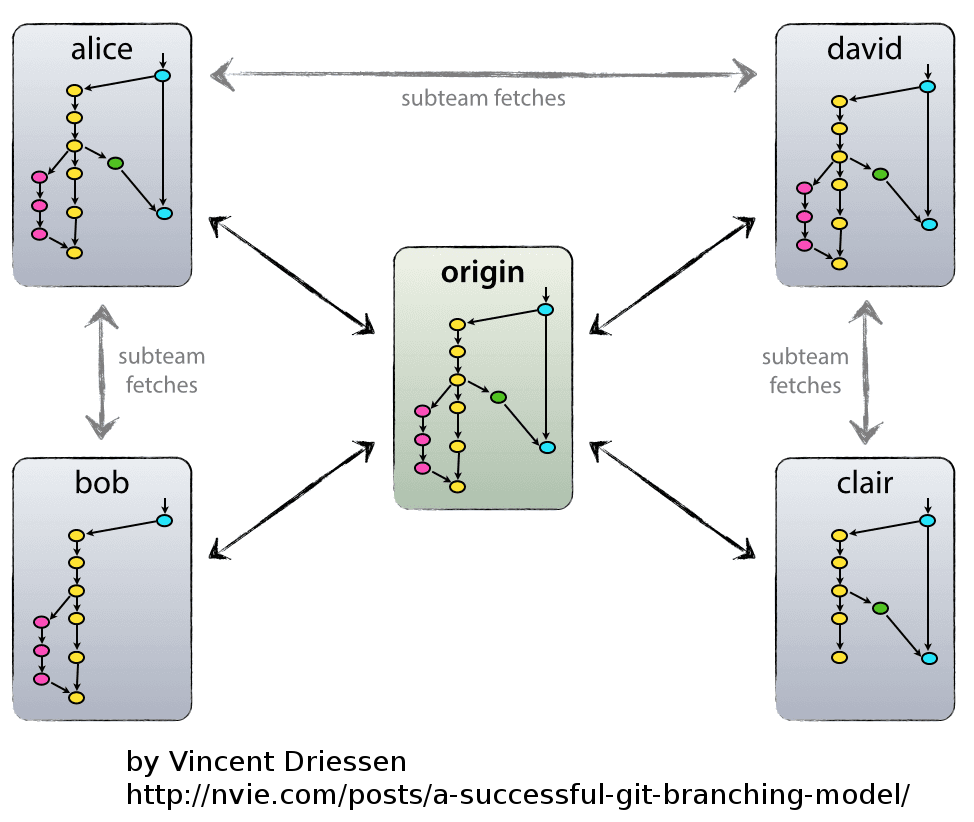
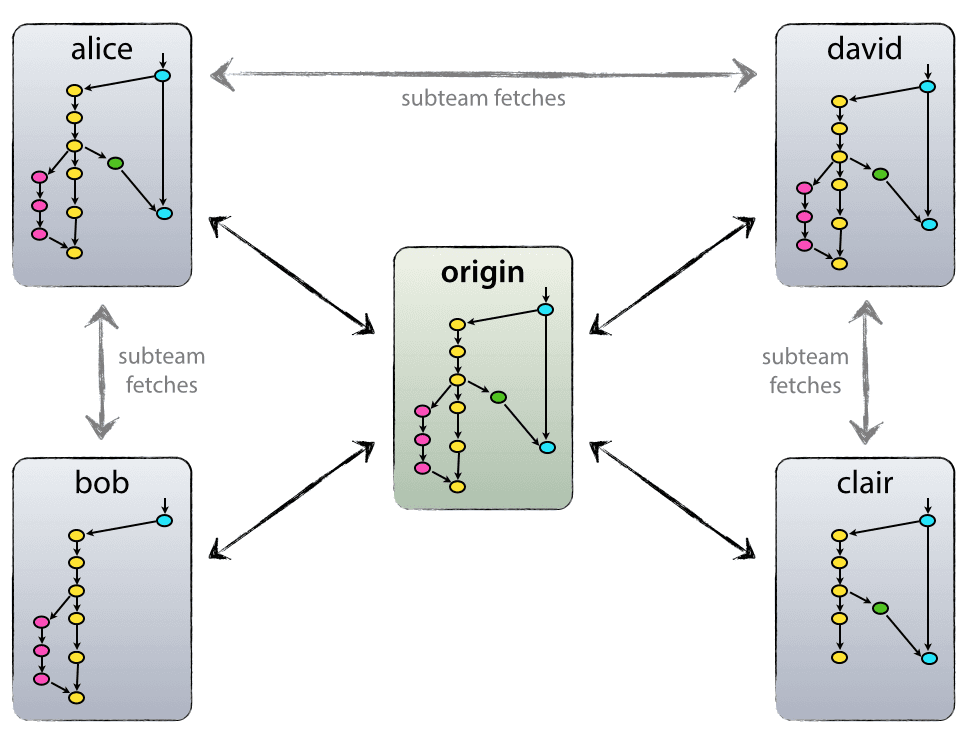
[Add explicit HREF to Vincent blog spot]

diff --git a/index.html b/index.html
@@ -64,7 +64,7 @@
 
         <meta name="description" content="git - A short story">
         <meta name="author" content="Papadakos Panagiotis" />
-	<meta name="keywords" content="git tutorial, a little story">
+        <meta name="keywords" content="git tutorial, a little story">
 
         <link href='https://fonts.googleapis.com/css?family=Lato:300' rel='stylesheet' type='text/css'>
         <link href="css/style.css" rel="stylesheet" />
@@ -164,7 +164,7 @@
             <!-- Things change rapidly -->
             <div id="comparison" class="step" data-x="3900" data-y="-1200" data-z="-3000" data-rotate="100" data-scale="1">
                 <h2>git ≈ hg</h2>
-                <table id="t01">
+                <table>
                     <tr>
                         <td class='hidden'> </td>
                         <th><b>SVN</b></th>
@@ -593,11 +593,16 @@
                     <li>Someone initializes a central branch <b>(master)</b></li>
                     <li>Everybody clones the central repository</li>
                     <li>Each one works to the code (edit, stage, commit)</li>
-                    <li>Upload work in master either by using <code>git push origin master</code></li>
+                    <li>Upload work in master by using <code>git push origin master</code></li>
                     <li>If trees have diverged, you have first to <code>git pull</code></li>
                 </ul>
                 <h3 id="imgWorkflows2">Decentralized <img src="images/centr-decentr@2x.png" alt="workflows"></h3>
-                <br><br><br><br><br><br><br><br><br>
+                <br><br><br><br><br><br><br><br>
+                <span class="thanks">
+                    Sketches by Vincent Driessen<br>
+                    <a href="http://nvie.com/posts/a-successful-git-branching-model/">http://nvie.com/posts/a-successful-git-branching-model/</a>
+                </span>
+                <br>
 
             </div>
             <!-- Some historical clues -->
@@ -665,7 +670,7 @@
                         <td>Yes</td>
                     </tr>
                     <tr>
-                        <td class='left'><b>Deployment</b></td>
+                        <td class='left'><b>Project Deployment</b></td>
                         <td>No</td>
                         <td>No</td>
                         <td>Yes</td>

diff --git a/css/style.css b/css/style.css
@@ -79,15 +79,15 @@ th, td {
     text-align: left;
     width: 25%;
 }
-table#t01 tr:nth-child(even) {
+table tr:nth-child(even) {
     background-color: #eee;
     width: 25%;
 }
-table#t01 tr:nth-child(odd) {
+table tr:nth-child(odd) {
     background-color:#fff;
     width: 25%;
 }
-table#t01 th	{
+table th	{
     background-color: black;
     color: white;
     width: 25%;
@@ -172,22 +172,22 @@ code.snippet .comment { font-size: 0.8em; color: #777; }
     border: 10px solid #333;
     border-radius: 20px;
     border-style:  0px;
-        /*width: 500px;
-        height: 500px; */
+    /*width: 500px;
+    height: 500px; */
 
-        /*
-         * Transitioning the blur kicks this to the GPU, the .05s is a flood control
-         * of sorts. Without a delay you're back in the same position as before with
-         * too many paints.
-         *
-         * @see jankfree.org
-         */
-        /* Have this in mind http://css3playground.com/blur-filter/
-    /*    -webkit-transition: -webkit-filter .05s linear;
-        -moz-transition:    -moz-filter .05s linear;
-        transition:         filter .05s linear;
-        -webkit-filter: blur(5px); -moz-filter: blur(5px); -o-filter: blur(5px); -ms-filter: blur(5px); filter: blur(5px);
-        */
+    /*
+     * Transitioning the blur kicks this to the GPU, the .05s is a flood control
+     * of sorts. Without a delay you're back in the same position as before with
+     * too many paints.
+     *
+     * @see jankfree.org
+     */
+    /* Have this in mind http://css3playground.com/blur-filter/
+/*    -webkit-transition: -webkit-filter .05s linear;
+    -moz-transition:    -moz-filter .05s linear;
+    transition:         filter .05s linear;
+    -webkit-filter: blur(5px); -moz-filter: blur(5px); -o-filter: blur(5px); -ms-filter: blur(5px); filter: blur(5px);
+    */
 }
 
 .step h3 {
@@ -998,7 +998,7 @@ label.slider input[type=range]::-webkit-slider-thumb {
     width: 550px;
     position: absolute;
     top: 530px;
-    left: 200px;
+    left: 0px;
 }
 
 #repositories #imgRepositories img {
@@ -1025,6 +1025,13 @@ code .shell{
 code .indent {
     position: relative;
     left: 150px;
+}
+
+span.thanks{
+    /*float:right;*/
+    position: fixed;
+    left:600px;
+    font-size: 0.7em
 }
 
 
